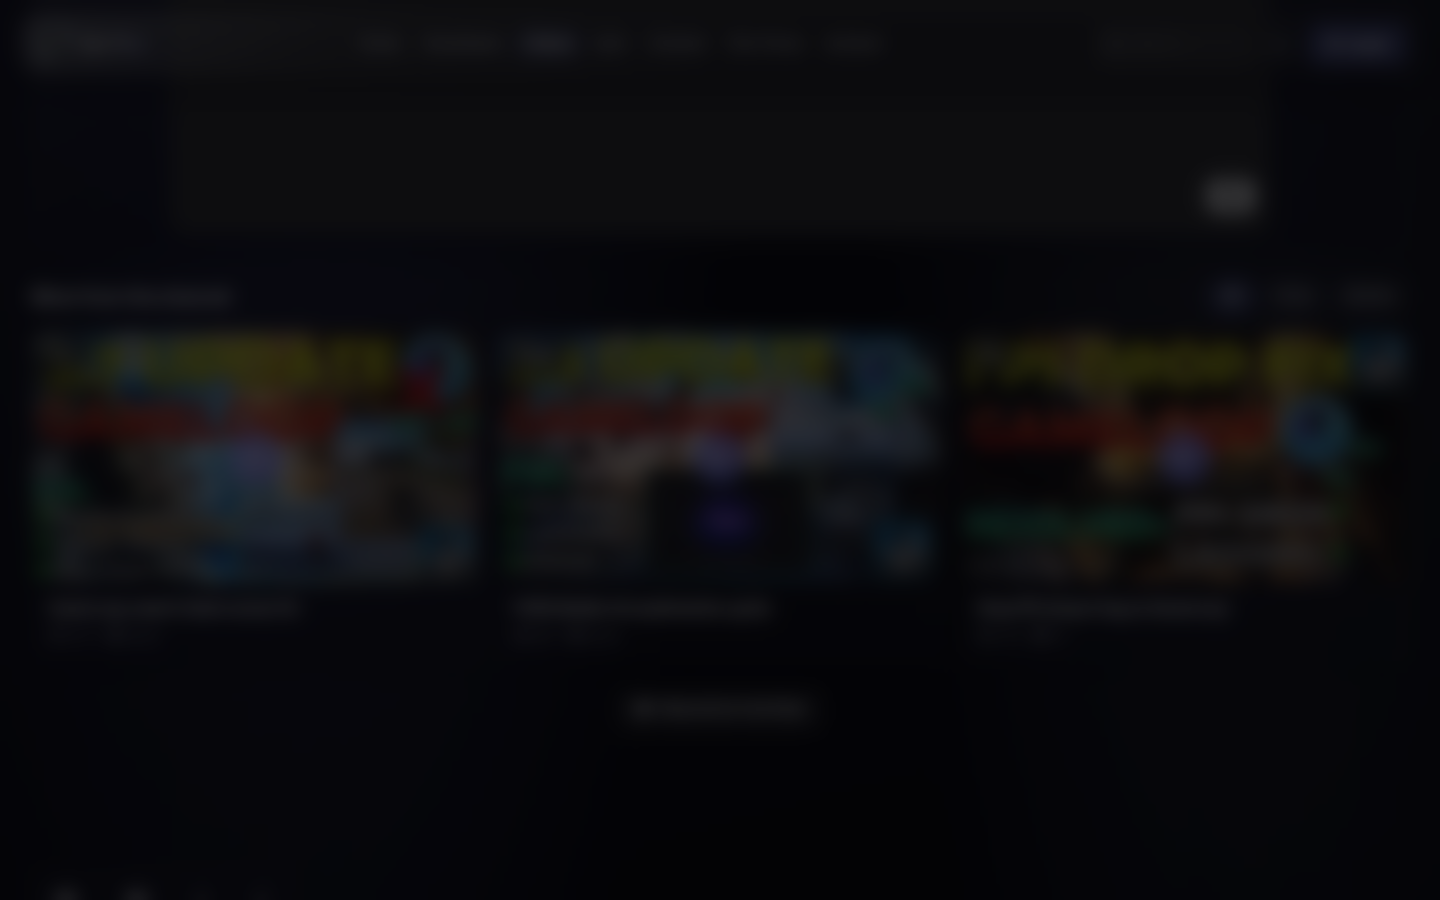
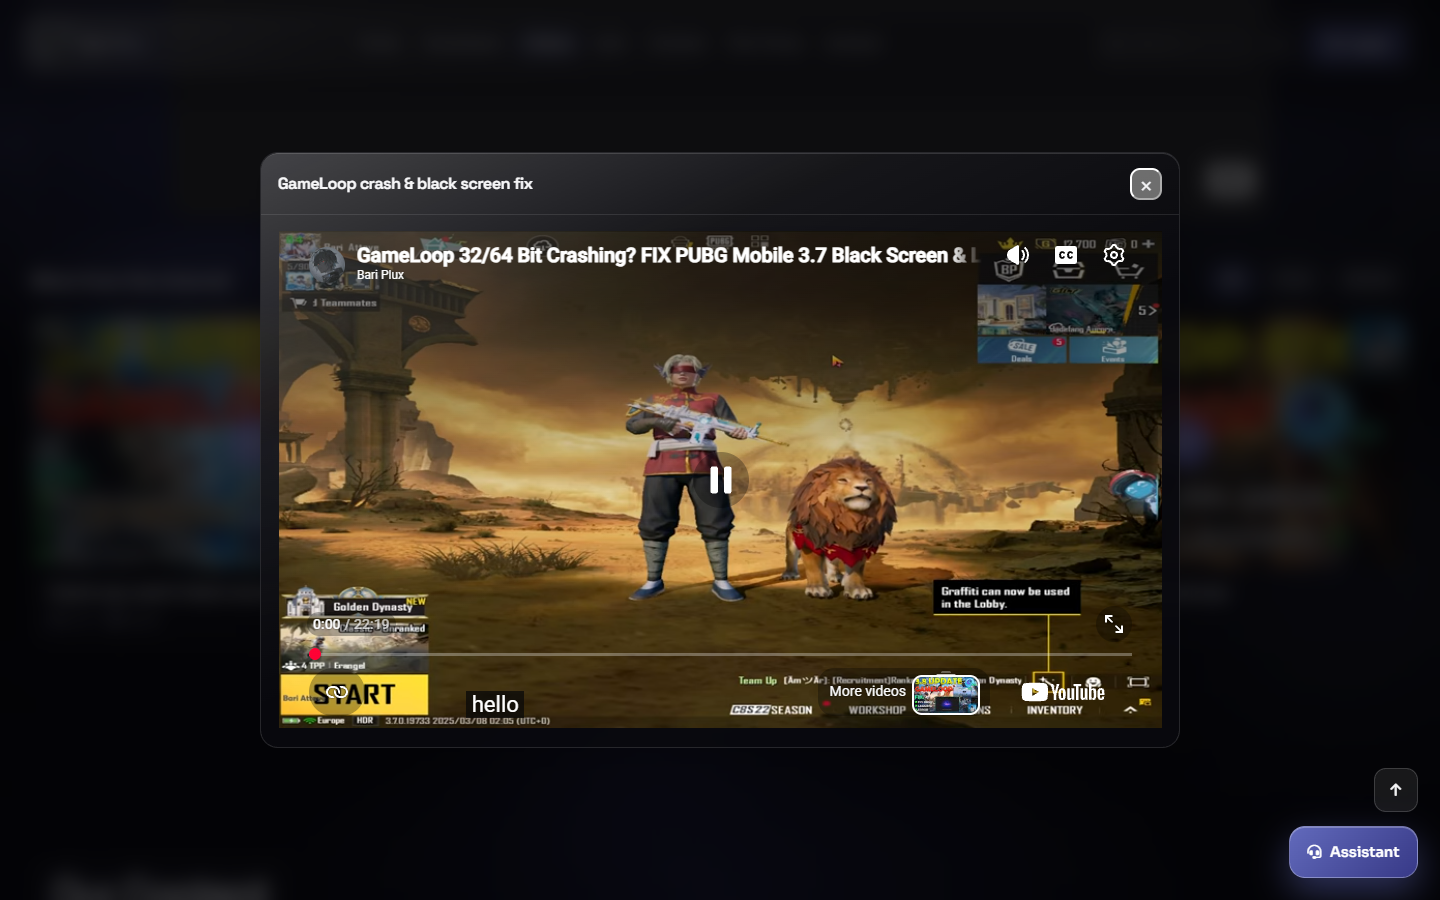
Fix fixed-position modals broken by body transform animation; add visual modal evidence shots

diff --git a/diagnose-modals.js b/diagnose-modals.js
@@ -1,0 +1,144 @@
+const fs = require('fs');
+const path = require('path');
+const http = require('http');
+const puppeteer = require('puppeteer');
+
+const ROOT = __dirname;
+const OUT = path.join(ROOT, '_archive', 'proof', 'screenshots');
+const PORT = 8769;
+fs.mkdirSync(OUT, { recursive: true });
+
+const mime = {
+  '.html': 'text/html; charset=utf-8', '.css': 'text/css; charset=utf-8',
+  '.js': 'application/javascript; charset=utf-8', '.json': 'application/json',
+  '.png': 'image/png', '.jpg': 'image/jpeg', '.svg': 'image/svg+xml', '.woff2': 'font/woff2',
+};
+
+function serve(req, res) {
+  let urlPath = decodeURIComponent(req.url.split('?')[0]);
+  if (urlPath === '/') urlPath = '/index.html';
+  const filePath = path.join(ROOT, urlPath.replace(/^\//, '').replace(/\//g, path.sep));
+  if (!filePath.startsWith(ROOT) || !fs.existsSync(filePath) || fs.statSync(filePath).isDirectory()) {
+    res.writeHead(404); res.end('nf'); return;
+  }
+  res.writeHead(200, {
+    'Content-Type': mime[path.extname(filePath).toLowerCase()] || 'application/octet-stream',
+    'Cache-Control': 'no-store',
+  });
+  fs.createReadStream(filePath).pipe(res);
+}
+
+(async () => {
+  const server = http.createServer(serve);
+  await new Promise((r) => server.listen(PORT, '127.0.0.1', r));
+  const browser = await puppeteer.launch({ headless: true, args: ['--no-sandbox'] });
+  const page = await browser.newPage();
+  await page.setViewport({ width: 1440, height: 900, deviceScaleFactor: 1 });
+  await page.goto('http://127.0.0.1:' + PORT + '/index.html', { waitUntil: 'networkidle2', timeout: 60000 });
+  await new Promise((r) => setTimeout(r, 1200));
+
+  await page.click('#contact-me-btn');
+  await new Promise((r) => setTimeout(r, 1000));
+
+  const rulesInfo = await page.evaluate(() => {
+    const m = document.querySelector('.rules-modal');
+    const c = document.querySelector('.rules-container');
+    const cs = getComputedStyle(m);
+    const csc = c ? getComputedStyle(c) : null;
+    const r = m.getBoundingClientRect();
+    const rc = c ? c.getBoundingClientRect() : null;
+    return {
+      className: m.className,
+      display: cs.display,
+      opacity: cs.opacity,
+      visibility: cs.visibility,
+      zIndex: cs.zIndex,
+      position: cs.position,
+      background: cs.backgroundColor,
+      rect: { x: r.x, y: r.y, w: r.width, h: r.height },
+      containerRect: rc ? { x: rc.x, y: rc.y, w: rc.width, h: rc.height } : null,
+      containerOpacity: csc ? csc.opacity : null,
+      containerBg: csc ? csc.backgroundColor : null,
+      title: (document.getElementById('rules-title') || {}).textContent || null,
+      titleVisible: (() => {
+        const t = document.getElementById('rules-title');
+        if (!t) return false;
+        const b = t.getBoundingClientRect();
+        return b.width > 0 && b.height > 0;
+      })(),
+    };
+  });
+  console.log('RULES_INFO', JSON.stringify(rulesInfo, null, 2));
+
+  const rulesContainer = await page.$('.rules-container');
+  if (rulesContainer) {
+    await rulesContainer.screenshot({ path: path.join(OUT, 'element-rules-container-1440.png') });
+    console.log('SAVED element-rules-container-1440.png');
+  }
+  await page.screenshot({ path: path.join(OUT, 'visual-rules-modal-1440x900.png'), fullPage: false });
+
+  await page.click('.close-rules');
+  await new Promise((r) => setTimeout(r, 400));
+
+  await page.evaluate(() => {
+    const card = document.querySelector('.video-card[data-video]');
+    card.scrollIntoView({ block: 'center' });
+    card.click();
+  });
+  await new Promise((r) => setTimeout(r, 1500));
+
+  const videoInfo = await page.evaluate(() => {
+    const m = document.getElementById('video-modal');
+    const cs = getComputedStyle(m);
+    const r = m.getBoundingClientRect();
+    const iframe = m.querySelector('iframe');
+    const content = m.querySelector('.modal-content');
+    return {
+      hidden: m.hidden,
+      display: cs.display,
+      opacity: cs.opacity,
+      visibility: cs.visibility,
+      zIndex: cs.zIndex,
+      position: cs.position,
+      background: cs.backgroundColor,
+      rect: { x: r.x, y: r.y, w: r.width, h: r.height },
+      iframeSrc: iframe ? iframe.src : null,
+      contentRect: content ? (() => {
+        const b = content.getBoundingClientRect();
+        return { x: b.x, y: b.y, w: b.width, h: b.height };
+      })() : null,
+    };
+  });
+  console.log('VIDEO_INFO', JSON.stringify(videoInfo, null, 2));
+
+  const videoContent = await page.$('#video-modal .modal-content');
+  if (videoContent) {
+    await videoContent.screenshot({ path: path.join(OUT, 'element-video-modal-1440.png') });
+    console.log('SAVED element-video-modal-1440.png');
+  }
+  await page.screenshot({ path: path.join(OUT, 'visual-video-modal-1440x900.png'), fullPage: false });
+
+  // mobile rules
+  await page.setViewport({ width: 390, height: 844, deviceScaleFactor: 1 });
+  await page.goto('http://127.0.0.1:' + PORT + '/index.html', { waitUntil: 'networkidle2', timeout: 60000 });
+  await new Promise((r) => setTimeout(r, 1200));
+  await page.click('#contact-me-btn');
+  await new Promise((r) => setTimeout(r, 1000));
+  const rc = await page.$('.rules-container');
+  if (rc) await rc.screenshot({ path: path.join(OUT, 'element-rules-container-390.png') });
+  await page.screenshot({ path: path.join(OUT, 'visual-rules-modal-390x844.png'), fullPage: false });
+  await page.click('.close-rules');
+  await new Promise((r) => setTimeout(r, 400));
+  await page.evaluate(() => {
+    const card = document.querySelector('.video-card[data-video]');
+    card.scrollIntoView({ block: 'center' });
+    card.click();
+  });
+  await new Promise((r) => setTimeout(r, 1500));
+  const vc = await page.$('#video-modal .modal-content');
+  if (vc) await vc.screenshot({ path: path.join(OUT, 'element-video-modal-390.png') });
+  await page.screenshot({ path: path.join(OUT, 'visual-video-modal-390x844.png'), fullPage: false });
+
+  await browser.close();
+  server.close();
+})().catch((e) => { console.error(e); process.exit(1); });

diff --git a/assets/css/site.css b/assets/css/site.css
@@ -1621,13 +1621,20 @@ html[data-theme="light"] mark.search-highlight {
   from { opacity: 0; transform: translate3d(0, 18px, 0); }
   to { opacity: 1; transform: none; }
 }
+/* Opacity-only body fade — NEVER put transform on body/html.
+   A transform on body makes position:fixed modals use the document
+   as containing block (off-screen when scrolled). */
+@keyframes bp-page-fade {
+  from { opacity: 0; }
+  to { opacity: 1; }
+}
 @keyframes bp-soft-glow {
   0%, 100% { box-shadow: 0 0 0 0 rgba(129,140,248,0); }
   50% { box-shadow: 0 0 28px rgba(129,140,248,0.18); }
 }
 
 body.bp-body {
-  animation: bp-rise 0.55s var(--ease, cubic-bezier(0.22,1,0.36,1)) both;
+  animation: bp-page-fade 0.55s var(--ease, cubic-bezier(0.22,1,0.36,1)) both;
 }
 
 .bp-chrome {

diff --git a/visual-repro-modals.js b/visual-repro-modals.js
@@ -24,7 +24,10 @@ function serve(req, res) {
   if (!filePath.startsWith(ROOT) || !fs.existsSync(filePath) || fs.statSync(filePath).isDirectory()) {
     res.writeHead(404); res.end('nf'); return;
   }
-  res.writeHead(200, { 'Content-Type': mime[path.extname(filePath).toLowerCase()] || 'application/octet-stream' });
+  res.writeHead(200, {
+    'Content-Type': mime[path.extname(filePath).toLowerCase()] || 'application/octet-stream',
+    'Cache-Control': 'no-store',
+  });
   fs.createReadStream(filePath).pipe(res);
 }
 

diff --git a/assets/css/widgets.css b/assets/css/widgets.css
@@ -600,6 +600,9 @@ body.bp-body { min-height: 100dvh; display: block; }
 .rules-modal.active,
 .rules-modal.show {
   display: grid !important;
+}
+.rules-modal.active .rules-container,
+.rules-modal.show .rules-container {
   animation: bp-rise 0.3s ease both;
 }
 .rules-container {
